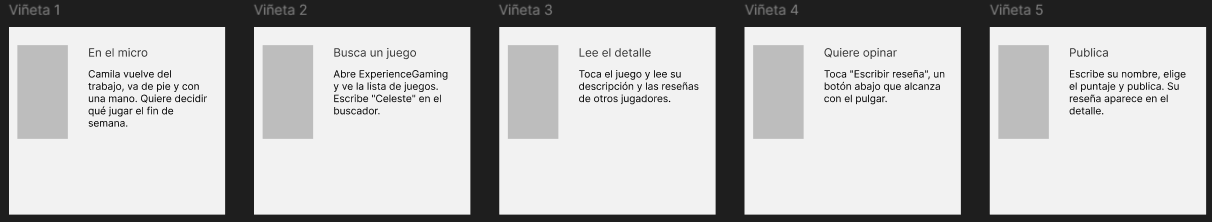
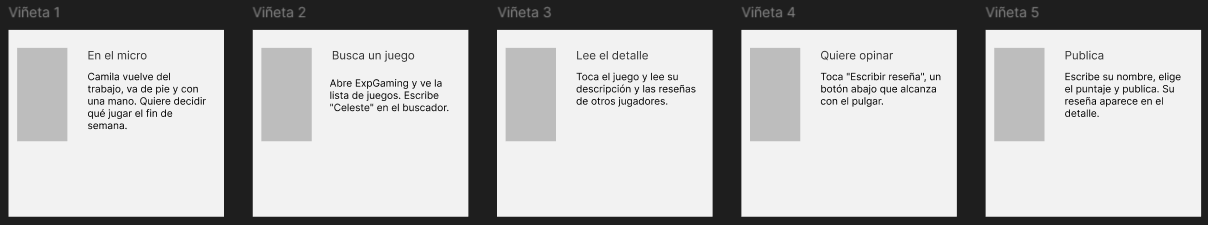
Agrega enlace del prototipo y corrige storyboard

diff --git a/README.md b/README.md
@@ -6,6 +6,7 @@ Proyecto del **Avance N°1: Diseño UI/UX y Frontend Móvil** del curso Tecnolog
 
 - **Diseño en Figma:** https://www.figma.com/design/yktOt6tXWoLBhvcXe5eNsK/ExpGaming?node-id=0-1
 - **Bitácora del proyecto:** [docs/bitacora.md](docs/bitacora.md)
+- **Prototipo interactivo:** https://www.figma.com/proto/yktOt6tXWoLBhvcXe5eNsK/ExpGaming?node-id=33-166&p=f&t=H9YWM4rEjVZOzW1C-1&scaling=min-zoom&content-scaling=fixed&page-id=0%3A1&starting-point-node-id=33%3A166
 
 ## Pantallas
 

diff --git a/docs/bitacora.md b/docs/bitacora.md
@@ -6,6 +6,7 @@
 - Diseño en Figma: https://www.figma.com/design/yktOt6tXWoLBhvcXe5eNsK/ExpGaming?node-id=0-1
 - Repositorio: https://github.com/BenjaminAlocilla2005/ExpGaming
 
+
 ExpGaming es una app móvil de reseñas de videojuegos: el usuario explora un catálogo, lee el detalle de cada juego y publica su propia reseña con puntaje.
 
 ---
